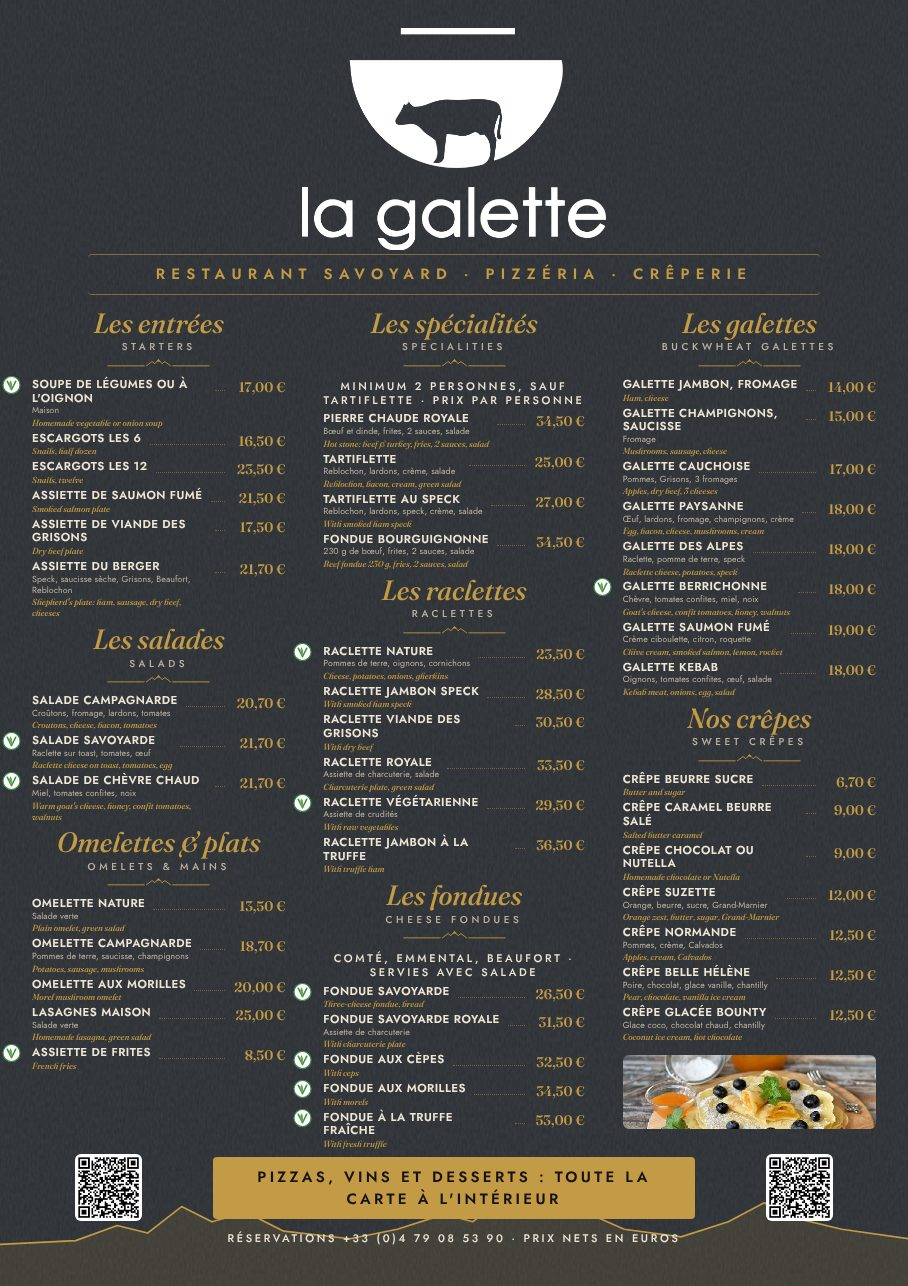
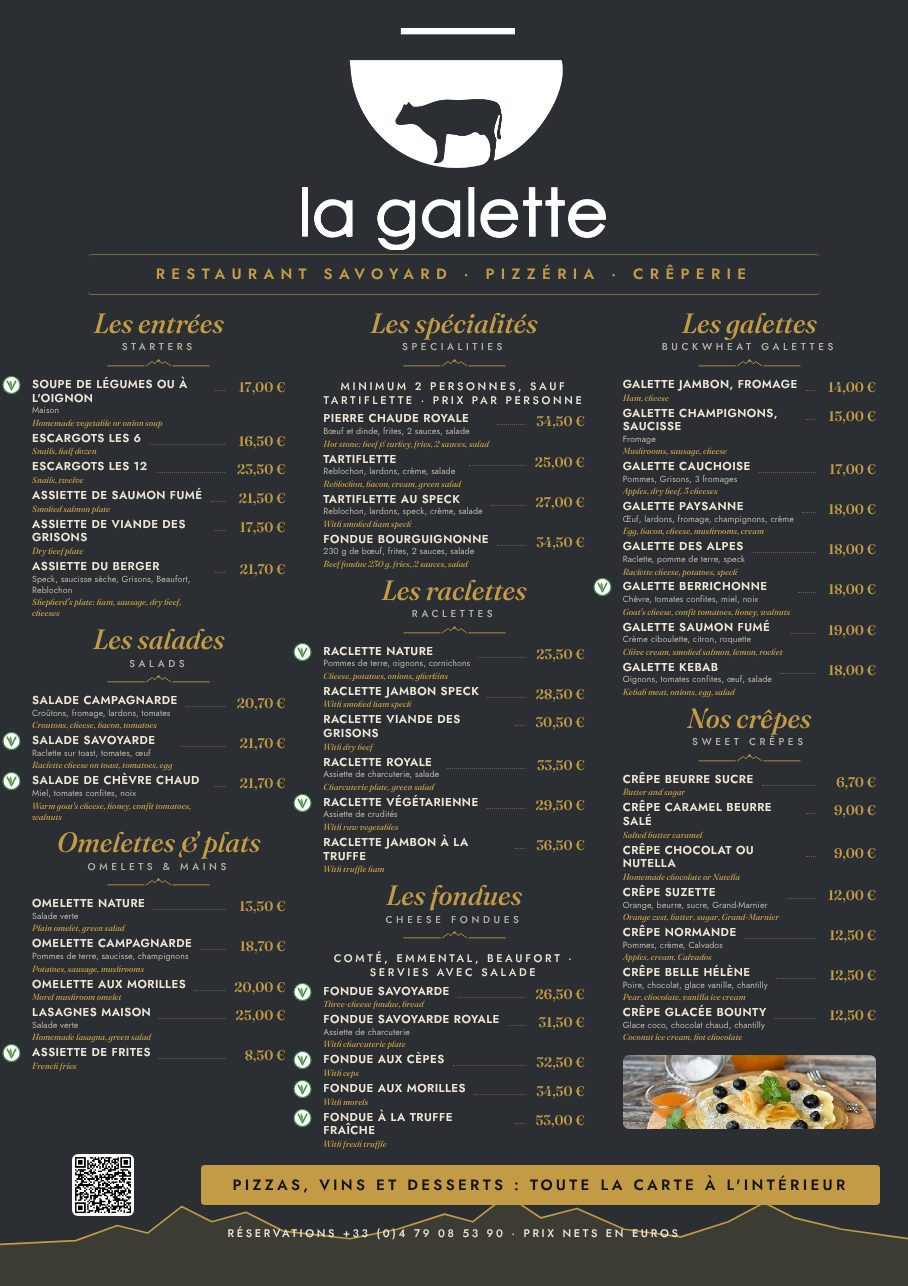
Présentation La Galette : supports extérieurs avec un seul QR code
Claude-Session: https://claude.ai/code/session_014aNwerFKka7aNuCCrqmi84

Changed region(s): [[0.2159, 0.8709, 0.9868, 0.9642], [0.0617, 0.902, 0.1542, 0.9642]]

diff --git a/presentation-galette.html b/presentation-galette.html
@@ -200,7 +200,7 @@ h1{margin:26px auto 0;max-width:15em;font:italic 500 clamp(34px,9.4vw,58px)/1.06
         <div class="sw"><label class="avant" for="p5-avant">Avant</label><label class="apres" for="p5-apres">Après</label></div>
         <div class="shots">
           <a class="shot avant" href="presentation/avant-emporter.jpg"><span class="tag">Avant</span><img src="presentation/avant-emporter.jpg" width="986" height="1414" loading="lazy" decoding="async" alt="Adhésif actuel, vente à emporter"><span class="zoom" aria-hidden="true"><svg class="i" viewBox="0 0 24 24"><circle cx="10.5" cy="10.5" r="6.5"/><path d="M15.5 15.5 20 20M10.5 7.5v6M7.5 10.5h6"/></svg></span></a>
-          <a class="shot apres" href="presentation/apres-emporter.jpg?v=2"><span class="tag">Après</span><img src="presentation/apres-emporter.jpg?v=2" width="870" height="1248" loading="lazy" decoding="async" alt="Nouvel adhésif proposé, vente à emporter"><span class="zoom" aria-hidden="true"><svg class="i" viewBox="0 0 24 24"><circle cx="10.5" cy="10.5" r="6.5"/><path d="M15.5 15.5 20 20M10.5 7.5v6M7.5 10.5h6"/></svg></span></a>
+          <a class="shot apres" href="presentation/apres-emporter.jpg?v=3"><span class="tag">Après</span><img src="presentation/apres-emporter.jpg?v=3" width="870" height="1248" loading="lazy" decoding="async" alt="Nouvel adhésif proposé, vente à emporter"><span class="zoom" aria-hidden="true"><svg class="i" viewBox="0 0 24 24"><circle cx="10.5" cy="10.5" r="6.5"/><path d="M15.5 15.5 20 20M10.5 7.5v6M7.5 10.5h6"/></svg></span></a>
         </div>
       </figure>
 
@@ -211,7 +211,7 @@ h1{margin:26px auto 0;max-width:15em;font:italic 500 clamp(34px,9.4vw,58px)/1.06
         <div class="sw"><label class="avant" for="p6-avant">Avant</label><label class="apres" for="p6-apres">Après</label></div>
         <div class="shots">
           <a class="shot avant" href="presentation/avant-totem.jpg"><span class="tag">Avant</span><img src="presentation/avant-totem.jpg" width="994" height="1408" loading="lazy" decoding="async" alt="Porte-menu actuel du totem"><span class="zoom" aria-hidden="true"><svg class="i" viewBox="0 0 24 24"><circle cx="10.5" cy="10.5" r="6.5"/><path d="M15.5 15.5 20 20M10.5 7.5v6M7.5 10.5h6"/></svg></span></a>
-          <a class="shot apres" href="presentation/apres-totem.jpg?v=3"><span class="tag">Après</span><img src="presentation/apres-totem.jpg?v=3" width="908" height="1286" loading="lazy" decoding="async" alt="Nouveau porte-menu proposé pour le totem"><span class="zoom" aria-hidden="true"><svg class="i" viewBox="0 0 24 24"><circle cx="10.5" cy="10.5" r="6.5"/><path d="M15.5 15.5 20 20M10.5 7.5v6M7.5 10.5h6"/></svg></span></a>
+          <a class="shot apres" href="presentation/apres-totem.jpg?v=4"><span class="tag">Après</span><img src="presentation/apres-totem.jpg?v=4" width="908" height="1286" loading="lazy" decoding="async" alt="Nouveau porte-menu proposé pour le totem"><span class="zoom" aria-hidden="true"><svg class="i" viewBox="0 0 24 24"><circle cx="10.5" cy="10.5" r="6.5"/><path d="M15.5 15.5 20 20M10.5 7.5v6M7.5 10.5h6"/></svg></span></a>
         </div>
       </figure>
 
